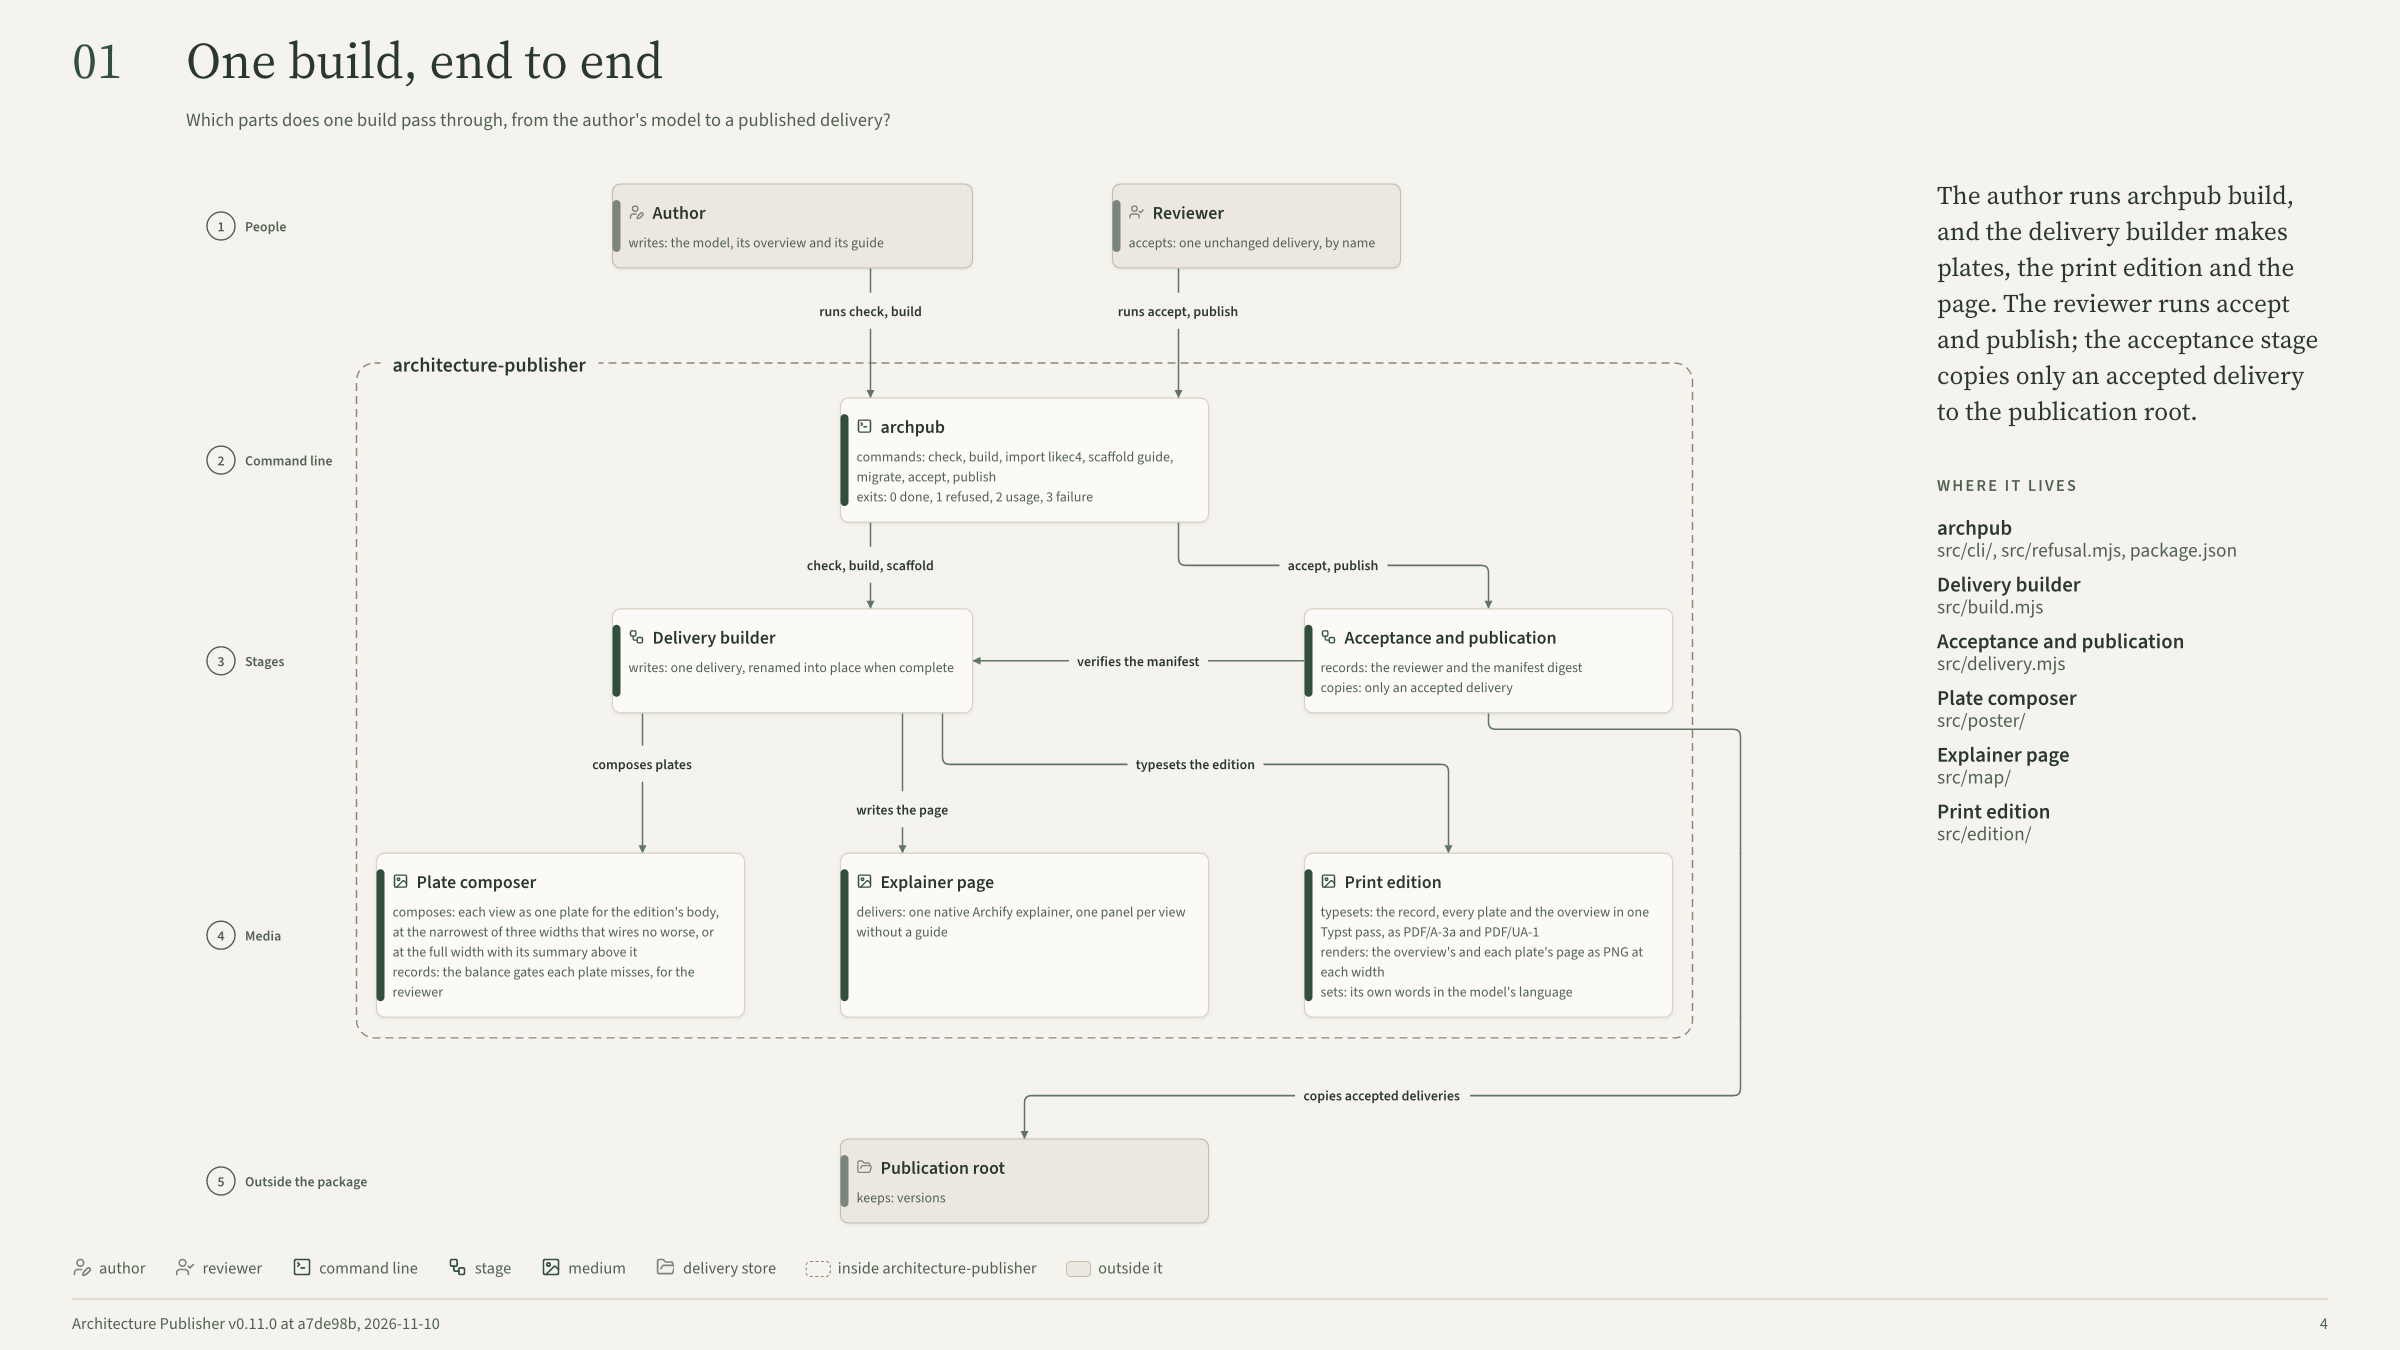
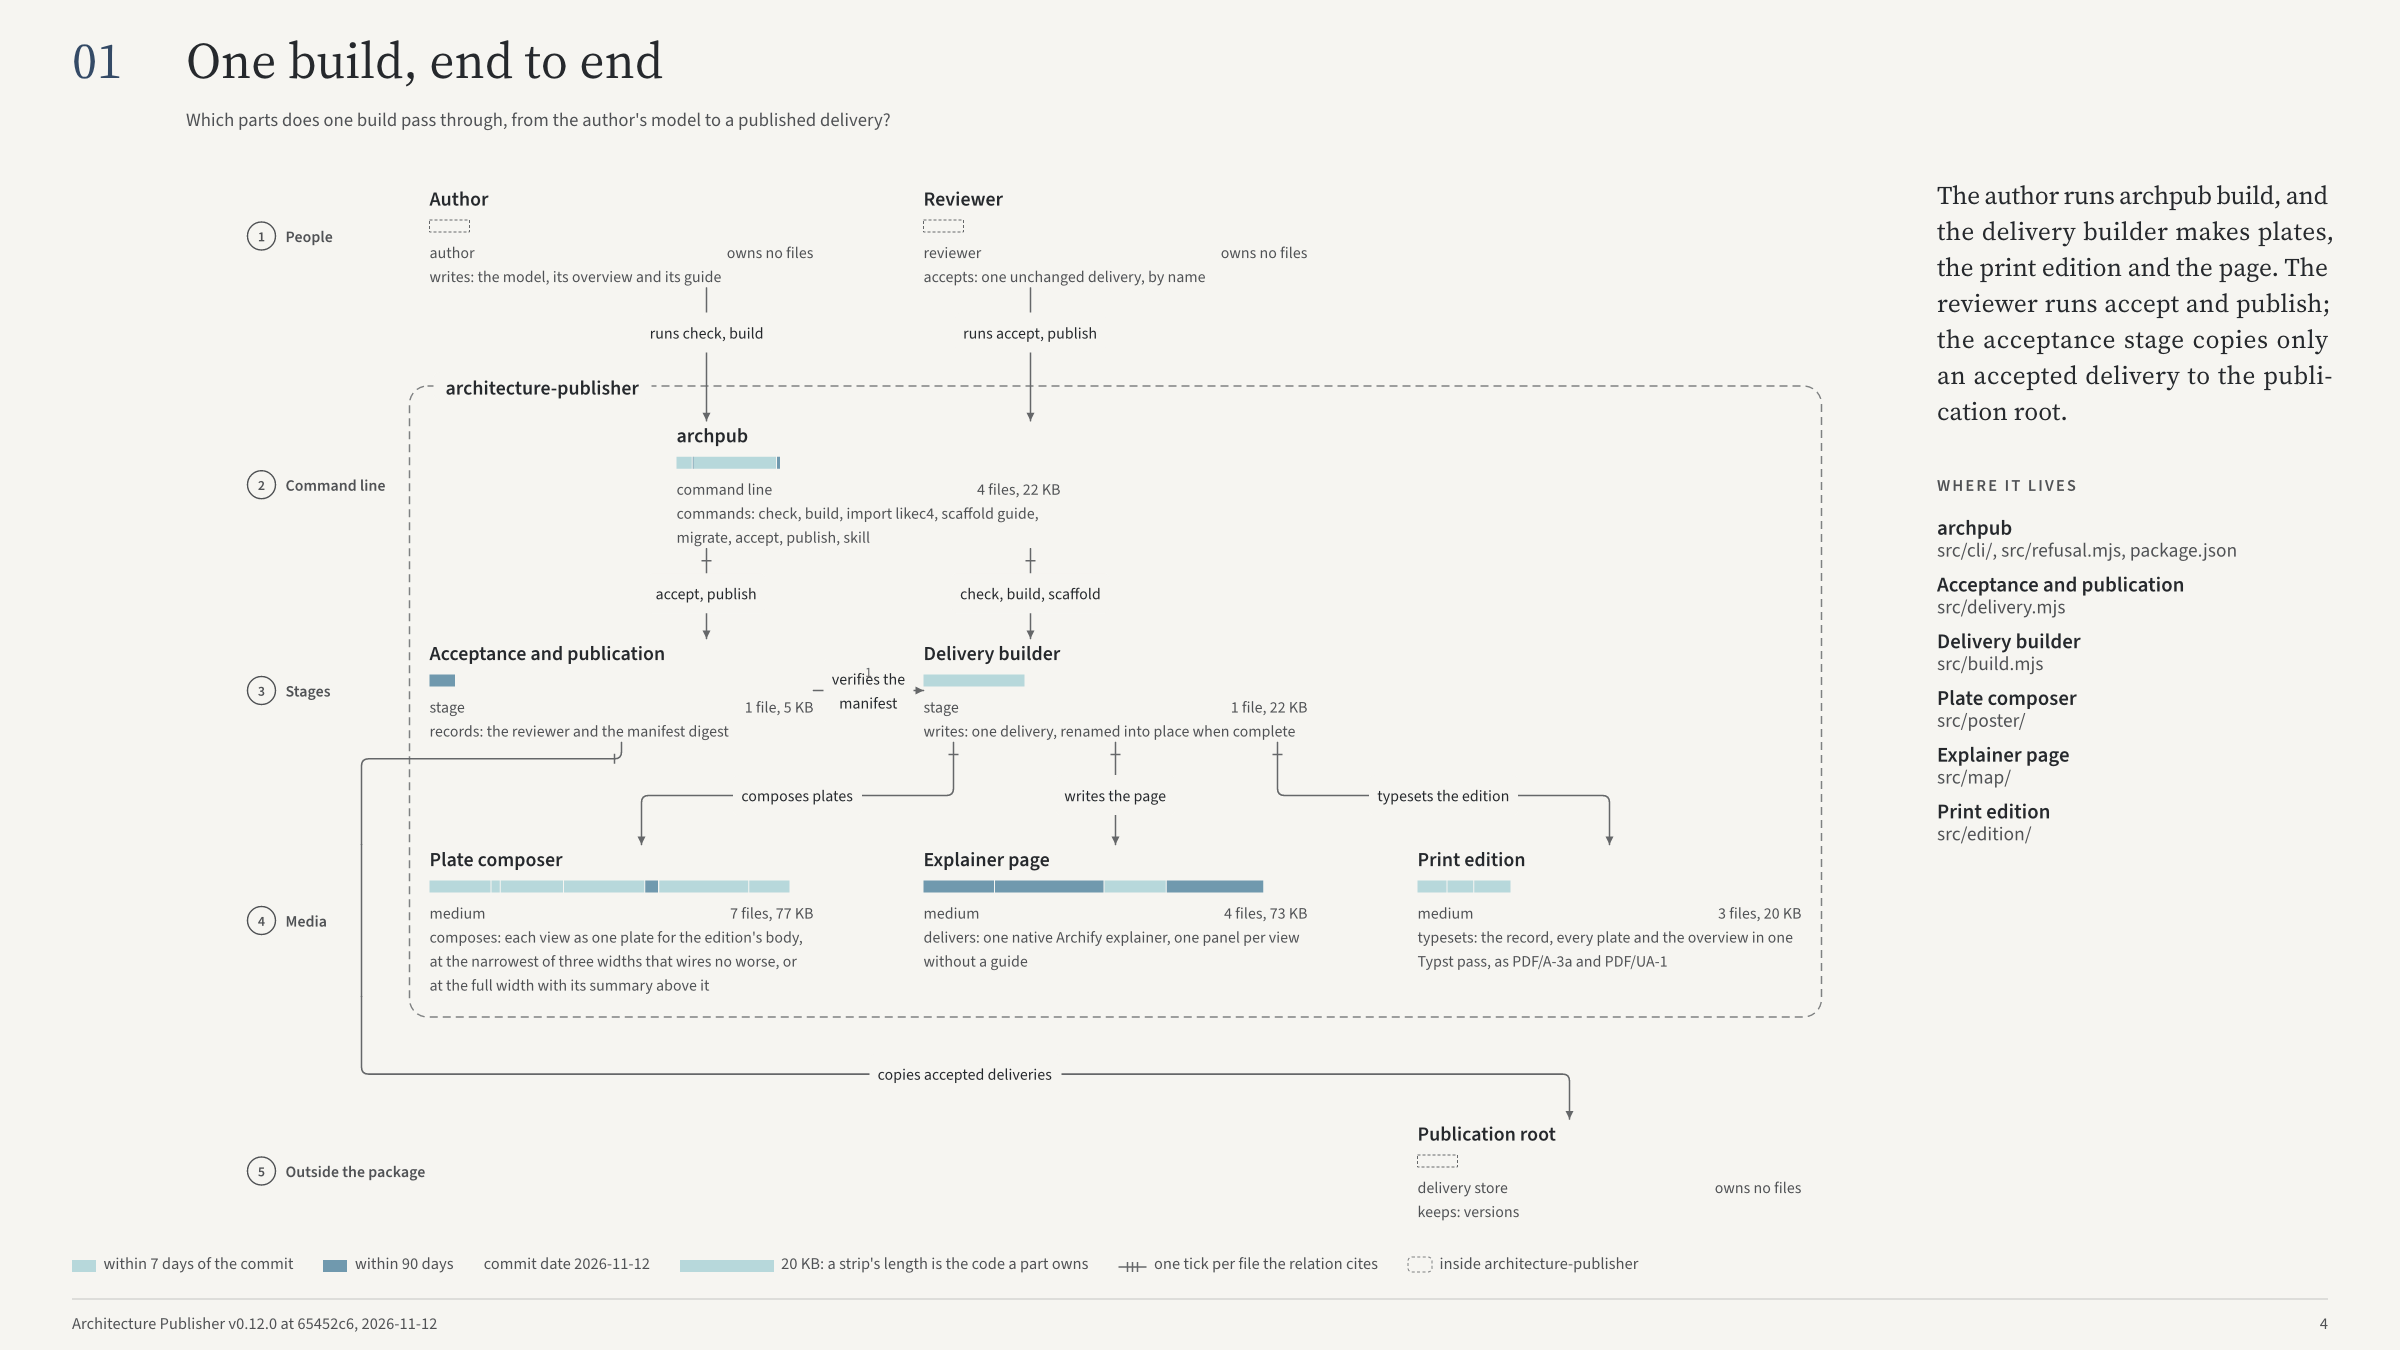
docs: describe justified details, kerned measures and the ways to install
The operations reference states how a Chinese edition wraps and spreads a part's details and that figure text is measured with the faces' kerning. The README shows plate 01 as 0.13.1 builds it from the publisher's published work; it showed a 0.11.0 plate, from before readings were justified. The install guide says that mise holds a release back for its first day and how to take the newest at once, and names the Homebrew formula and the npm package.

diff --git a/docs/reference/operations.md b/docs/reference/operations.md
@@ -110,13 +110,12 @@ archpub --help | --version [--json]
 Exit status 0 means success, 1 a refused input, 2 a usage error and 3 an
 internal error, any other failure, such as a file the command cannot read or
 write. With `--json`, the command prints one JSON object: `{ "ok": true, ... }`
-with the result, `{ "ok": false, "code", "message", "problems" }` for a
-refusal, where each problem has a `code`, a JSON `path` into the model and a
-`message`, `{ "ok": false, "code": "usage", "message" }` for a usage error, or
-`{ "ok": false, "code": "internal_error", "message" }`. Without `--json`,
-the same result is one line of text, which `check` follows with a line for each
-report that has something to say, and a refusal lists each problem on its own
-line.
+with the result, `{ "ok": false, "code", "message", "problems" }` for a refusal,
+where each problem has a `code`, a JSON `path` into the model and a `message`,
+`{ "ok": false, "code": "usage", "message" }` for a usage error, or `{ "ok":
+false, "code": "internal_error", "message" }`. Without `--json`, the same result
+is one line of text, which `check` follows with a line for each report that has
+something to say, and a refusal lists each problem on its own line.
 
 ## Layout and media
 
@@ -204,8 +203,8 @@ figure would wire worse at that height too, it keeps the whole body and the
 manifest records its reading as left out. A summary above the figure carries
 neither the heading for where each part lives nor the paths. The engine
 measures the summary as Typst sets it, with a quarter em between Han and the
-letters and digits beside it and some full-width marks at half their width,
-but without the faces' kerning; should Typst need more lines than the engine
+letters and digits beside it, some full-width marks at half their width and
+the faces' own pair kerning; should Typst need more lines than the engine
 reserved, the plate sets the engine's lines flush left. A view without a summary gives up only width its
 figure leaves at the full width, at its own step, and only when one of its
 components claims files. Beside the figure, 40 points from it, the plate sets
@@ -240,19 +239,21 @@ from 112 to 826 points, the key at 848 and a foot of a rule and the work's
 title, release, revision and date, which links back to the contents. Prose is
 justified and hyphenated within a measure of 32 ems, in Source Serif 4 for
 titles and Source Sans 3 for text, with Noto Sans CJK SC for Han. Each plate's
-runs are set where the engine measured them; a run Typst sets wider, or a line
-of a summary above its figure that Typst sets wider than 32 ems, is refused
-with `edition_text_wider`, and a title longer than its line with
-`edition_title_too_long`. When the model declares `repository.browse`, each card
-title links to its component's first file at the pinned revision. Each plate is
-one figure with alt text of its title and question, its shapes and key are
-artifacts, and the model is attached as `model.json` with the relationship
-`source`, so the PDF conforms to PDF/A-3a and PDF/UA-1. Its title, authors,
-subject, keywords and language come from the model; it is dated by the
-revision's commit with `--repo`, otherwise by `SOURCE_DATE_EPOCH` when set, and
-otherwise by the time it is typeset, which the manifest records. Typst also
-renders the overview's page and each plate's page as PNG at each `--png` width,
-at width × 72 / 1600 pixels per inch.
+runs are set where the engine measured them, with the faces' kerning; in a
+Chinese edition a part's details wrap as a paragraph, a last line of one
+character taking the unit before it, and each line but a detail's last is spread
+to their measure unless its slack is over a tenth of an em for each place it
+opens. A run Typst sets wider, or a summary line above its figure wider than 32
+ems, is refused with `edition_text_wider`, a title longer than its line with
+`edition_title_too_long`. With `repository.browse`, a card's title links to its
+component's first file at the pinned revision. Each plate is a figure with alt
+text of its title and question, its shapes and key artifacts; the model is
+attached as `model.json` with the relationship `source`, so the PDF conforms to
+PDF/A-3a and PDF/UA-1. Its title, authors, subject, keywords and language come
+from the model; it is dated by the revision's commit with `--repo`, otherwise by
+`SOURCE_DATE_EPOCH` when set, and otherwise by the time it is typeset, which the
+manifest records. Typst also renders the overview's page and each plate's page
+as PNG at each `--png` width, at width × 72 / 1600 pixels per inch.
 
 The page is one Archify explainer, delivered by the vendored, unmodified
 Archify 3.2.0. Its heading is the model's question, its conclusion the summary,
@@ -349,14 +350,13 @@ and the same inputs give the same bytes.
 
 ## The guide
 
-When the model names a [guide](model.md#guide), the page is the guide. The
-build reads the draft and the files its `@diagram source=`, `@chart data=` and
-`@image path=` arguments name, each a regular file in the draft's own directory,
-and refuses a link, another path or a missing file. A draft whose `@meta` names
-a `repo_url` or `repo_revision` other than the model's repository URL and
-revision is refused. Archify validates and delivers the draft at the build's
-quality, with its writing checks strict at `showcase` and warnings at
-`standard`.
+When the model names a [guide](model.md#guide), the page is the guide. The build
+reads the draft and the files its `@diagram source=`, `@chart data=` and `@image
+path=` arguments name, each a regular file in the draft's own directory, and
+refuses a link, another path or a missing file. A draft whose `@meta` names a
+`repo_url` or `repo_revision` other than the model's repository URL and revision
+is refused. Archify validates and delivers the draft at the build's quality,
+with its writing checks strict at `showcase` and warnings at `standard`.
 
 With `--repo` and a model that names its repository URL and revision, the build
 hands Archify a temporary clone of the checkout that shares its objects, with

diff --git a/CHANGELOG.md b/CHANGELOG.md
@@ -7,6 +7,31 @@ remain pre-release contracts and may contain incompatible changes.
 
 ## [Unreleased]
 
+### Changed
+
+- In an edition whose language is written without spaces between words, Chinese in either script, a part's details are
+  set as a justified paragraph is, on strip and card plates: they break wherever the script allows, inside a list's
+  item as between two, a last line takes the unit before it rather than hold one character alone, and each line except
+  a detail's last is spread to the measure the details wrap to, so a part's details share one right edge as the
+  edition's readings do. A line whose slack is more than a tenth of an em for each place it opens, such as one broken
+  before a long word, stays flush left. Details in English, Spanish and Korean editions stay flush left with their
+  items whole.
+- In such an edition a part's details are filled by the width Typst sets their lines in. A line of Han and letters
+  was measured in the CJK face alone, which is wider, and broke about a character early; it now holds what its
+  measure takes. A strip part's counts end at its box's edge for the same reason.
+- The engine measures Source Sans 3 and Source Serif 4 with their own pair kerning, as Typst sets them, so most runs
+  of letters measure a little narrower, in every language. A part's box may move by a step of the grid, and a plate
+  that only just could not take a larger type step, or set a tier on one row, may now do so.
+- The README's plate is built by 0.13.1, which justifies a plate's reading; it showed a 0.11.0 plate.
+- The install guide says that mise holds a release back for its first day and how to take the newest at once, and
+  names the Homebrew formula and the npm package.
+
+### Fixed
+
+- An edition whose figure text holds letters Typst kerns apart, as `format: (json)` or `package.json`, is no longer
+  refused with `edition_text_wider`. The font reader does not read the lookups where the house faces keep their
+  kerning, so the engine measured such a run narrower than Typst set it.
+
 ## [0.13.1] - 2026-11-13
 
 ### Security

diff --git a/docs/how-to.md b/docs/how-to.md
@@ -24,17 +24,39 @@ mise use -g github:HengYangDS/architecture-publisher
 ```
 
 Each release has an archive for Linux and Windows on ARM64 and x86-64 and for
-macOS on ARM64. To pin a version by its checksums in a project instead, copy the
-release's `architecture-publisher-<version>.mise.toml` into the project's mise
+macOS on ARM64. By default mise does not offer a release in its first 24 hours,
+so on the day of a release this line installs the one before it. Name the
+version to take it at once:
+
+```sh
+mise use -g github:HengYangDS/architecture-publisher@<version>
+```
+
+That keeps the version you named. To follow the newest release without the wait
+instead, exempt this tool from it once and run the first line again:
+
+```sh
+mise settings add minimum_release_age_excludes github:HengYangDS/architecture-publisher
+```
+
+To pin a version by its checksums in a project instead, copy the release's
+`architecture-publisher-<version>.mise.toml` into the project's mise
 configuration, as the [operations reference](reference/operations.md#installation)
 shows.
 
-Without mise, download `archpub-<version>-<platform>.tar.gz` from the
+With [Homebrew](https://brew.sh) on macOS on ARM64 or on Linux, a formula
+installs the same archive:
+
+```sh
+brew install HengYangDS/tap/archpub
+```
+
+Without either, download `archpub-<version>-<platform>.tar.gz` from the
 [releases](https://github.com/HengYangDS/architecture-publisher/releases),
 unpack it anywhere and put its `archpub/bin` on your path. Where Node.js 22.13
-or later is already present, the release's `architecture-publisher-<version>.tgz`
-installs the same command with `npm install --global --ignore-scripts`; it needs
-Typst 0.15.1 on the path to build the print edition.
+or later is already present, `npm install --global --ignore-scripts architecture-publisher`
+installs the same command as an npm package; it needs Typst 0.15.1 on the path
+to build the print edition.
 
 `archpub --version` prints the installed version, and `archpub <command> --help`
 explains each command.

diff --git a/README.md b/README.md
@@ -6,7 +6,7 @@ connection it draws against the code at one pinned commit.
 
 ![Plate 01 of Architecture Publisher's own edition: the parts one build passes through, from the author's model to a published delivery](docs/images/architecture-publisher-plate-01.png)
 
-_Plate 01 of the publisher's own edition, built by 0.11.0 from
+_Plate 01 of the publisher's own edition, built by 0.13.1 from
 [its model](https://github.com/HengYangDS/architecture-publications/blob/dev/publications/architecture-publisher/README.md)._
 
 You write the model: the components, the connections between them and the
@@ -25,8 +25,9 @@ mise use -g github:HengYangDS/architecture-publisher
 [mise](https://mise.jdx.dev) installs the release archive for your machine:
 Linux and Windows on ARM64 or x86-64, or macOS on ARM64. It holds `archpub`
 with its own Node.js and Typst, so it needs only Git. The
-[how-to guides](docs/how-to.md#install-the-command) install it without mise or
-as an npm package.
+[how-to guides](docs/how-to.md#install-the-command) install it with Homebrew,
+as an npm package or from the archive alone, and say how to take a release on
+the day it is published.
 
 ## Quick start
 
